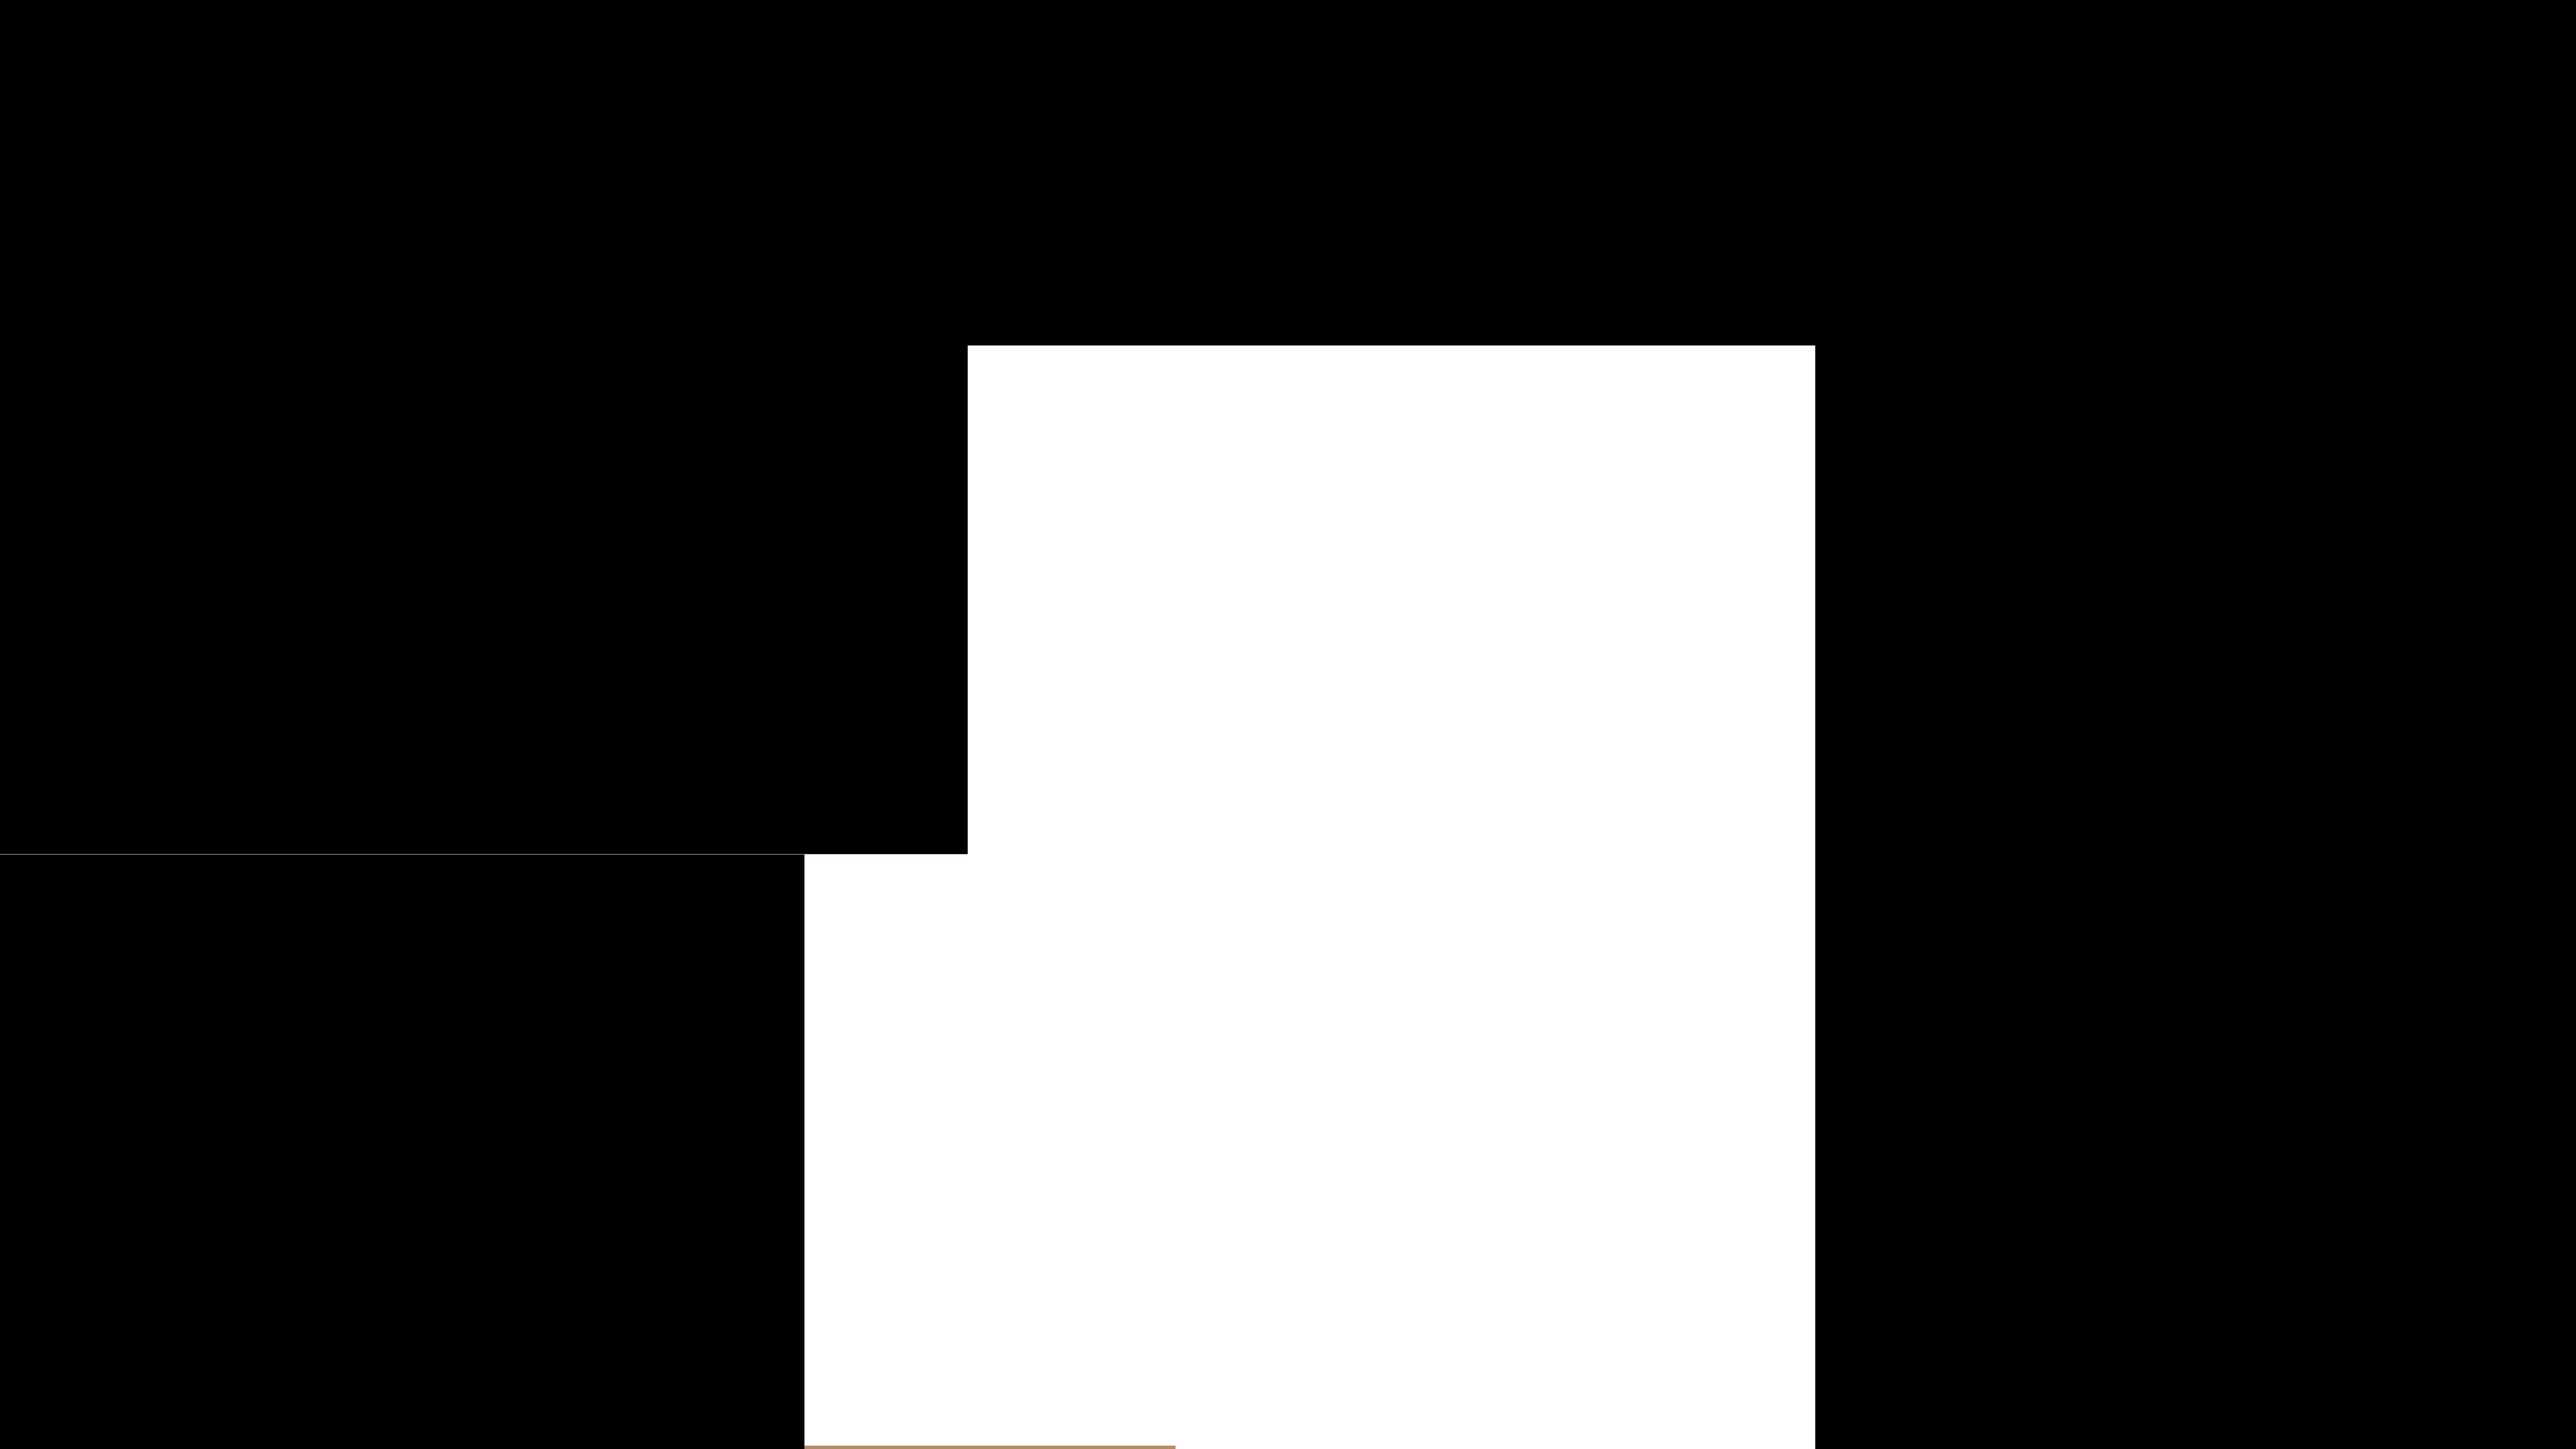
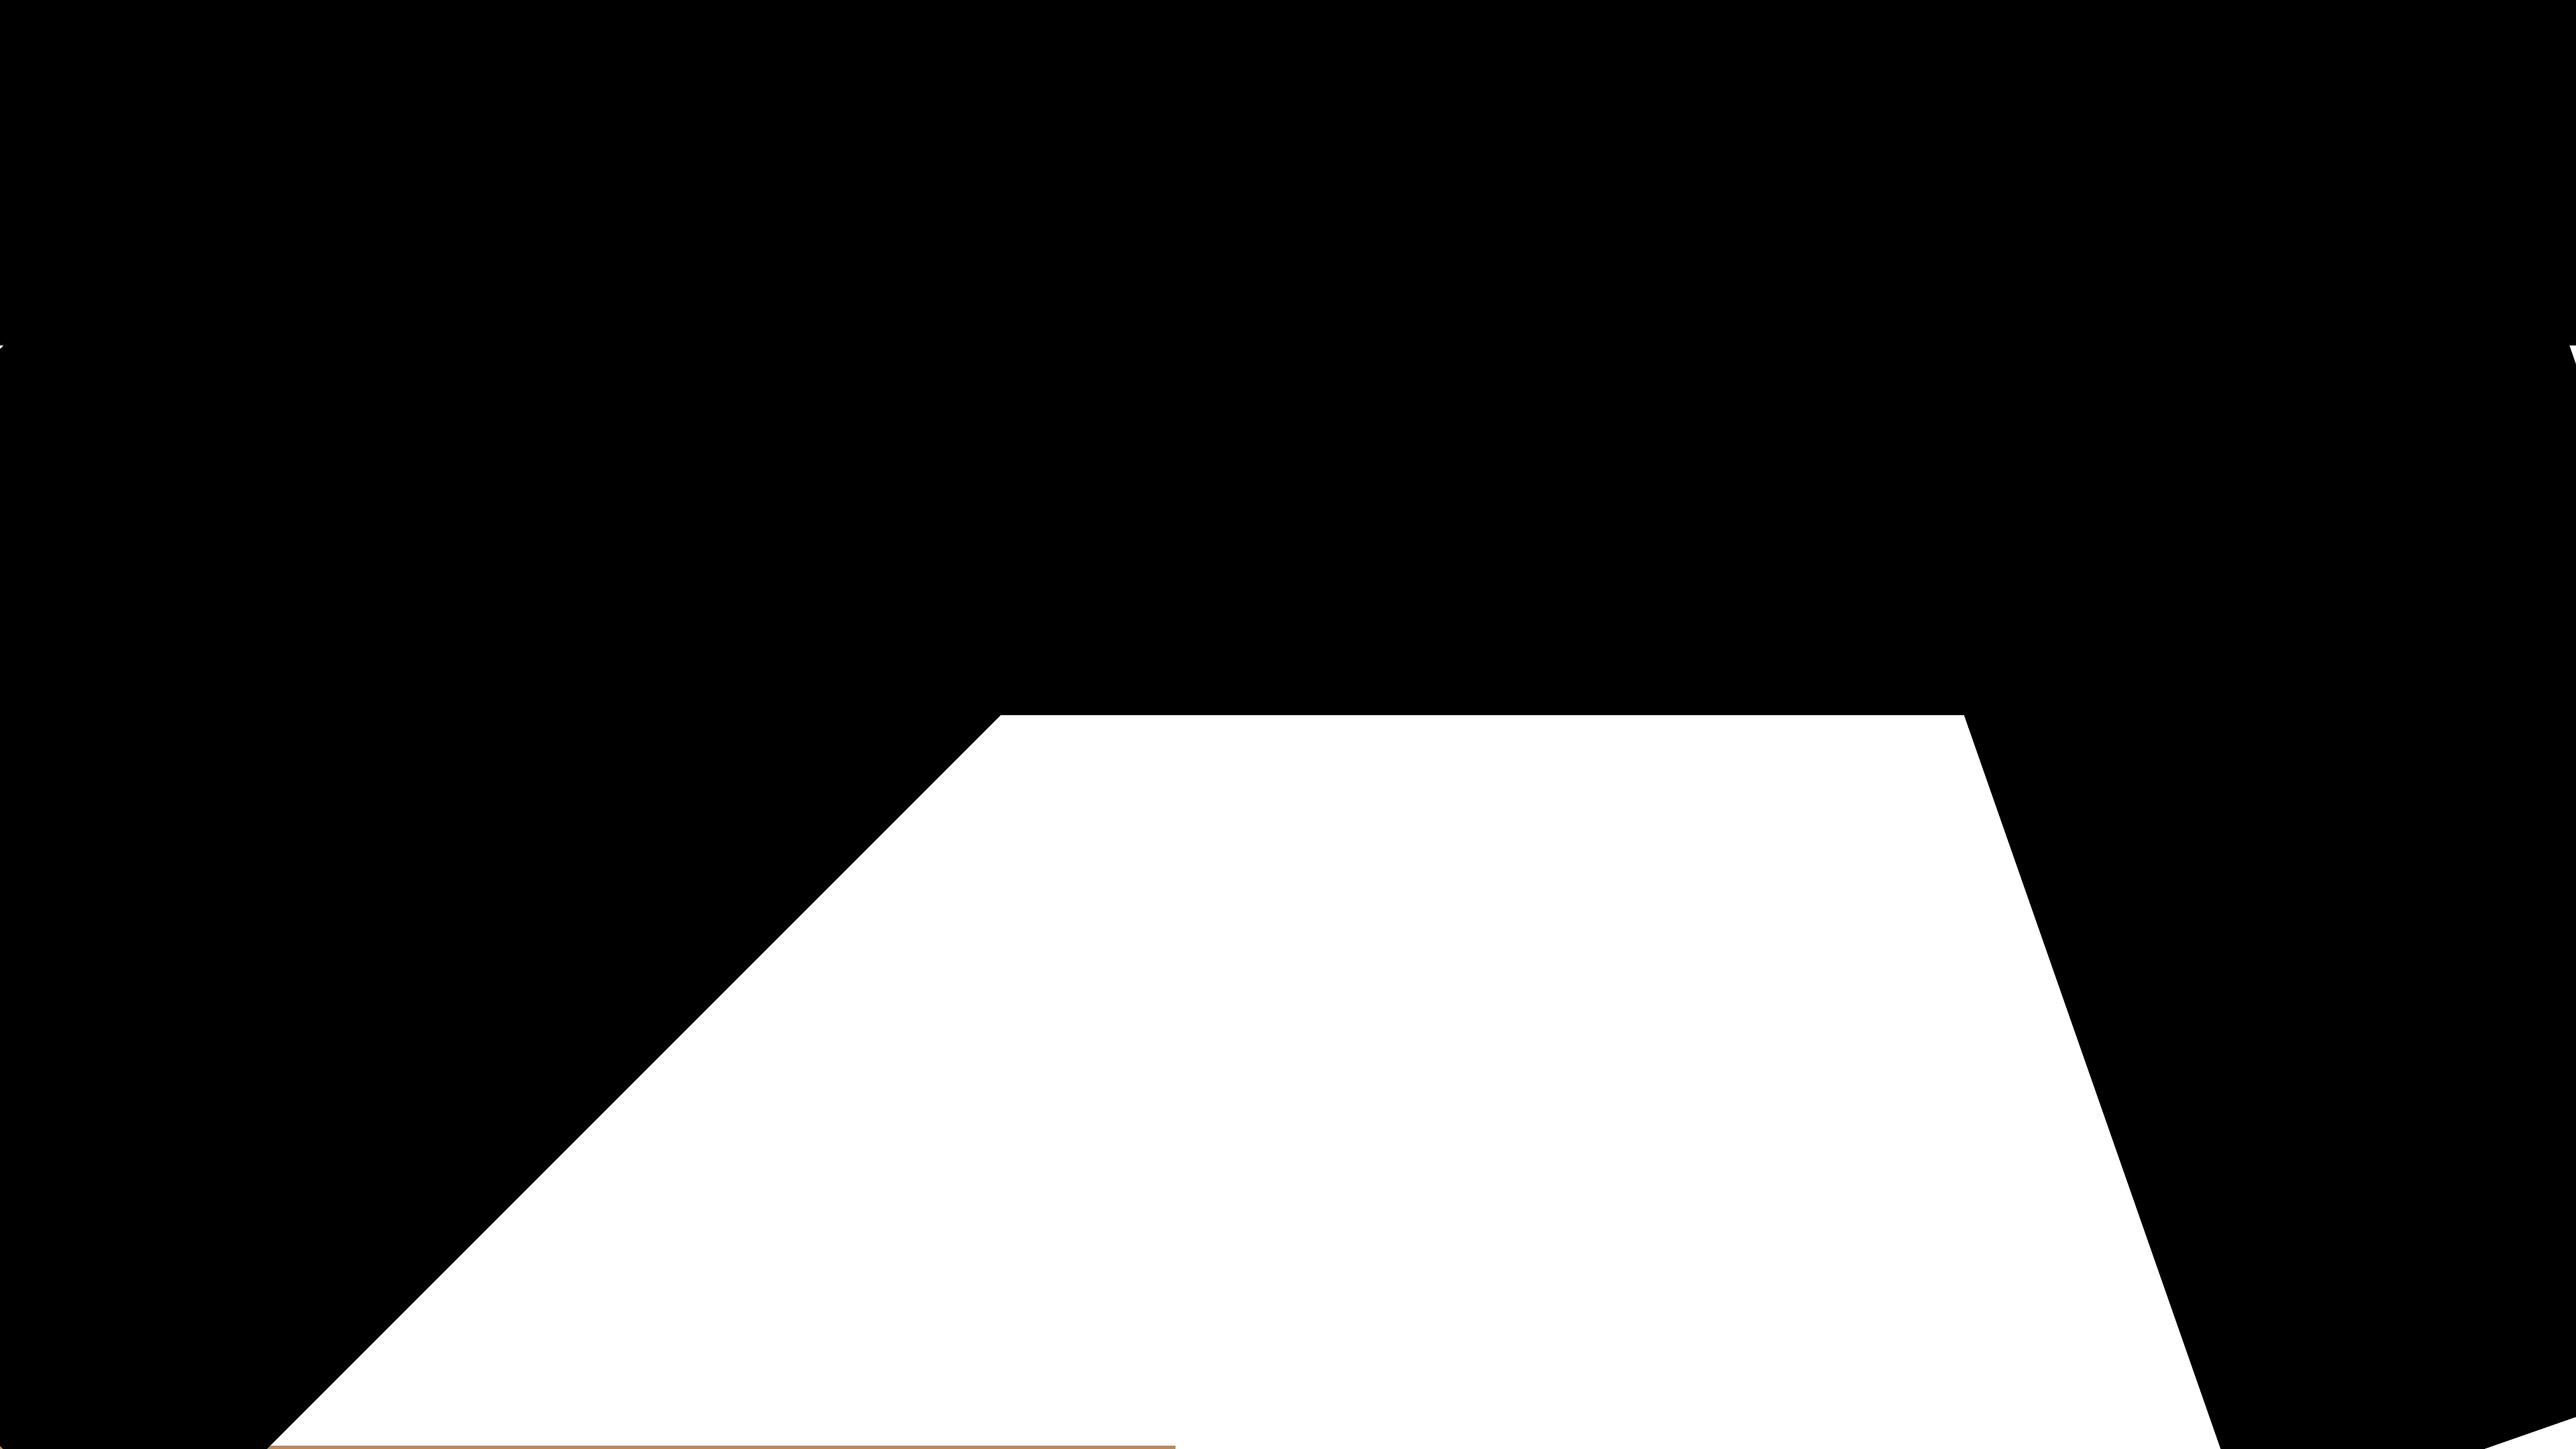
limits

diff --git a/Project1- Car Counter/Car-Counter.py b/Project1- Car Counter/Car-Counter.py
@@ -31,6 +31,12 @@ mask = cv2.imread("mask.png")
 #Tracking
 tracker = Sort(max_age=20, min_hits=5, iou_threshold=0.3)
 
+#line
+
+limits = [0, 660, 940, 660]  # ligne horizontale pleine largeur, y ≈ 660
+
+
+
 
 while True:
     sucess, img = cap.read()
@@ -47,37 +53,22 @@ while True:
     for r in results:
         boxes = r.boxes
         for box in boxes:
+            x1, y1, x2, y2 = box.xyxy[0]
+            x1, y1, x2, y2 = int(x1), int(y1), int(x2), int(y2)
+            w, h = x2 - x1, y2 - y1
 
-            # Bounding Box
+            conf = math.ceil((box.conf[0] * 100)) / 100
+            cls = int(box.cls[0])
+            currentClass = classNames[cls]
 
-             x1, y1, x2, y2 = box.xyxy[0]
-
-             x1, y1, x2, y2 = int(x1), int(y1), int(x2), int(y2)
-
-            # with cvzone
-             w, h = x2-x1, y2-y1
-             cvzone.cornerRect(img, (x1, y1, w,h), l=9)
-
-            # confidance
-
-             conf = math.ceil((box.conf[0]*100))/100
-
-            # Class Name
-
-             cls = int (box.cls[0])
-             currurentClass = classNames[cls]
-
-             if currurentClass == "car" or currurentClass == "truck" or currurentClass == "bus"\
-                     or currurentClass == "motorbike" and conf >= 0.3:
-
-               # cvzone.putTextRect(img, f'{classNames[cls]}{conf}', (max(0, x1), max(35, y1)),
-                                   #scale=0.7, thickness=1, offset=3)  # display a box text up the zone
-                cvzone.cornerRect(img, (x1, y1, w, h), l=9, rt= 5)
-                currurentArray = np.array([x1,y1,x2,y2,conf]) #list
-                detections = np.vstack((detections, currurentArray))
+            if currentClass in ["car", "truck", "bus", "motorbike"] and conf >= 0.3:
+                cvzone.cornerRect(img, (x1, y1, w, h), l=9, rt=5)
+                currentArray = np.array([x1, y1, x2, y2, conf])
+                detections = np.vstack((detections, currentArray))
 
 
     resultsTracker = tracker.update(detections)
+    cv2.line(img, (limits[0], limits[1]), (limits[2], limits[3]), (0,0,255), 5)
 
     for result in resultsTracker:
         x1, y1, x2, y2, id = result
@@ -90,7 +81,7 @@ while True:
                            scale=2, thickness=3, offset=8)
 
     cv2.imshow('img',img)
-    cv2.imshow('imgRegion', imgRegion)
+    #cv2.imshow('imgRegion', imgRegion)
 
     if cv2.waitKey(0) & 0xFF == ord('q'):
         break
